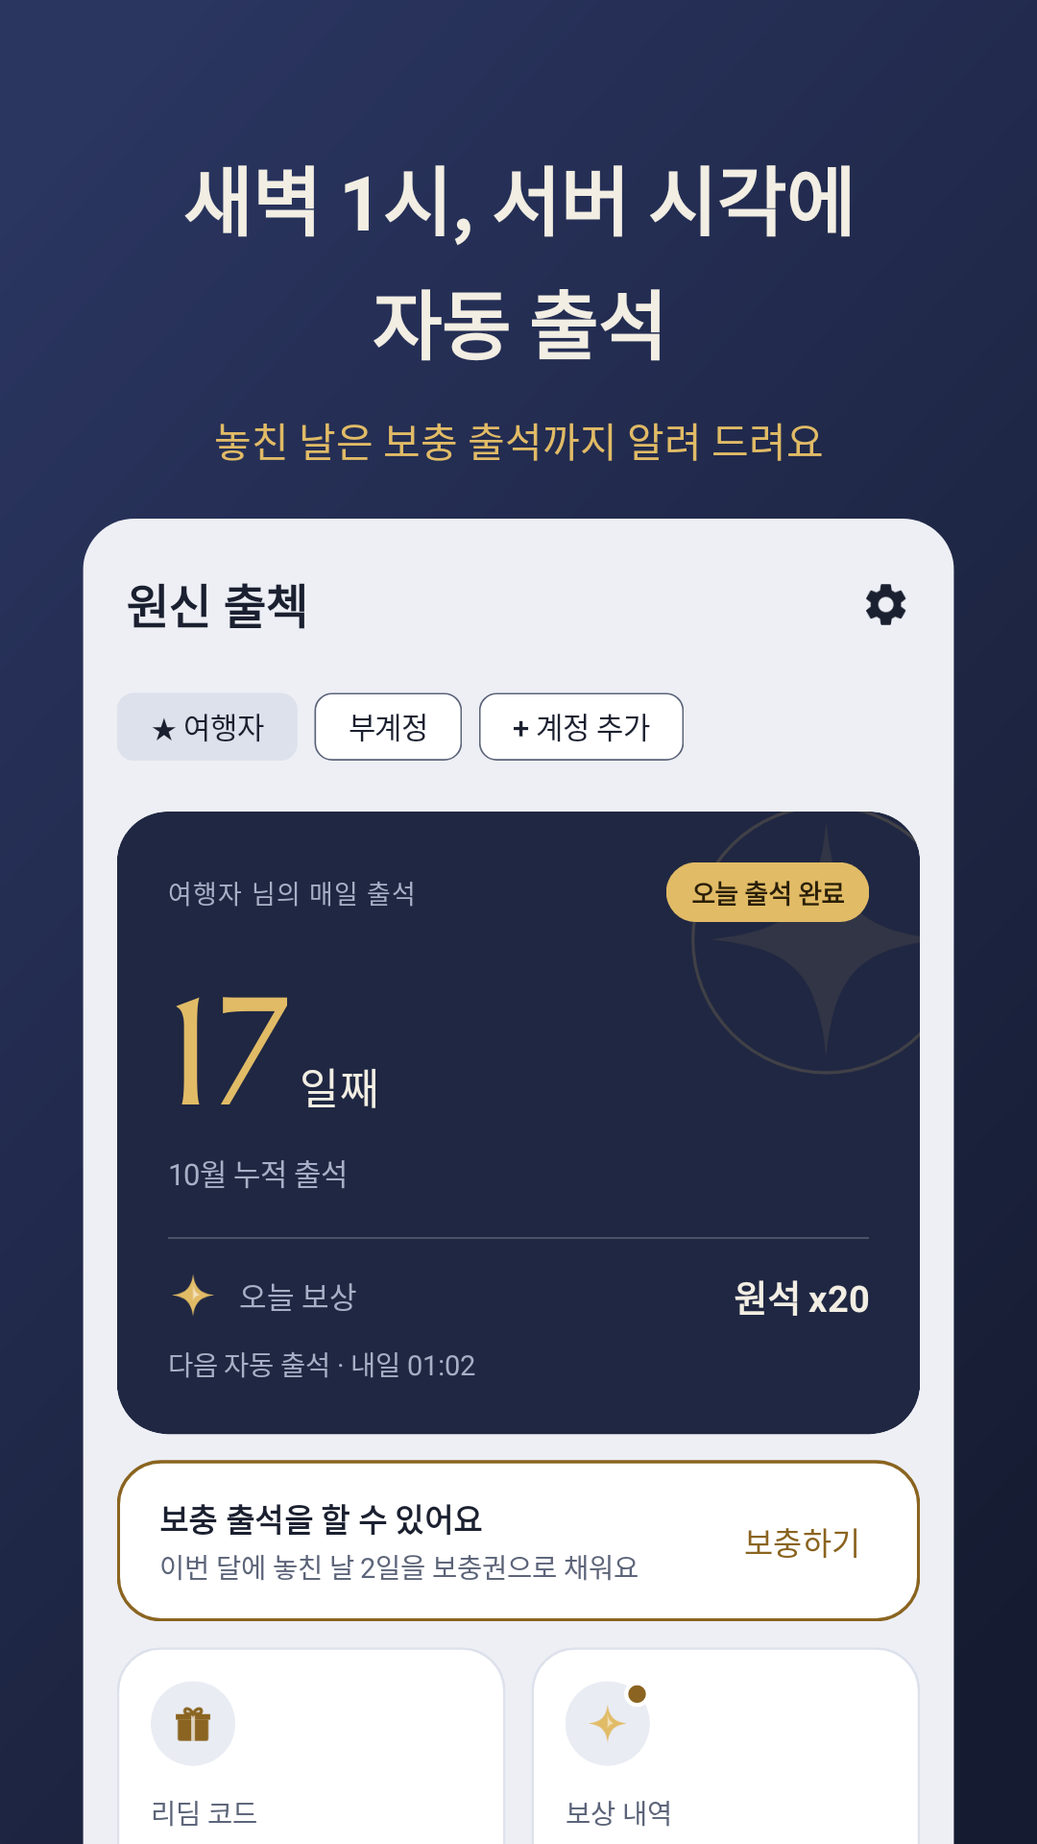
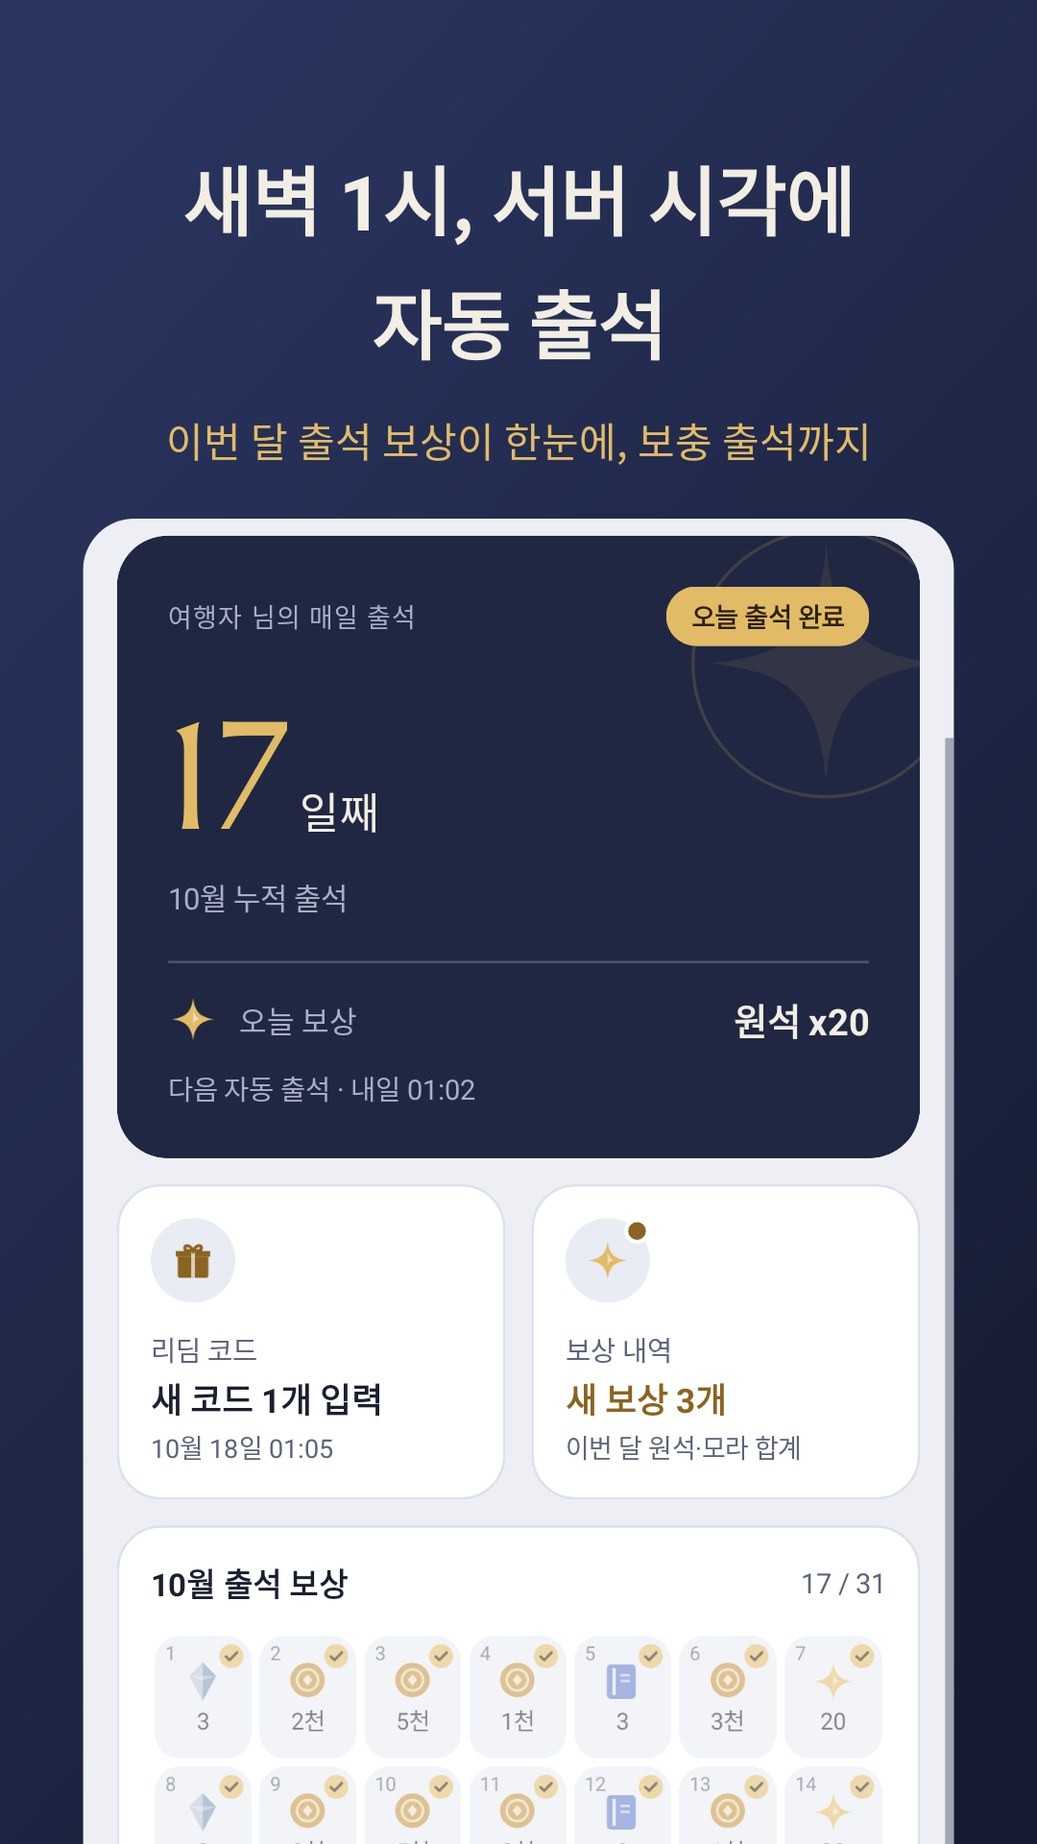
메인에 이번 달 출석 보상 달력 (0.9.3)
호요랩 출석 페이지처럼 이번 달 보상을 출석 횟수 순서로 7칸씩 보여 준다.
받은 칸은 흐리게+체크, 다음 칸은 금색 테두리, 놓친 날 때문에 이번 달 안에 못 받는 칸은 더 흐리게.
아래에 '다음 원석: N일 뒤'와 놓친 날 보충 안내. 보상 목록·누적·놓친 날은 하루 한 번(출석·보충 뒤에는 바로) 받아 온다.
스토어 스크린샷·설명·소개 페이지에도 반영.

diff --git a/app/src/main/java/kr/sumi/checkin/MainScreen.kt b/app/src/main/java/kr/sumi/checkin/MainScreen.kt
@@ -45,10 +45,16 @@ data class MainUiState(
     val busy: String? = null,
     /** 아직 확인하지 않은 보상 수. */
     val historyUnseen: Int = 0,
+    /** 이번 달 출석 보상(출석 횟수 순서). 아직 못 받아 왔으면 비어 있다. */
+    val calendar: List<CalendarSlot> = emptyList(),
+    /** 이번 달 안에 받을 수 있는 마지막 칸 번호(놓친 날을 보충하지 않으면 그 뒤 칸은 못 받는다). */
+    val calendarReachable: Int = Int.MAX_VALUE,
+    val calendarMissed: Int = 0,
 )
 
 /** activity_main 레이아웃을 MainUiState대로 채운다. 클릭 처리는 액티비티가 붙인다. */
 class MainScreen(val root: View) {
+    private val MATCH = android.view.ViewGroup.LayoutParams.MATCH_PARENT
     private val context = root.context
     private val statusChip: TextView = root.findViewById(R.id.statusChip)
     private val accountBar: View = root.findViewById(R.id.accountBar)
@@ -89,6 +95,11 @@ class MainScreen(val root: View) {
     private val tileHistoryValue: TextView = root.findViewById(R.id.tileHistoryValue)
     private val tileHistorySub: TextView = root.findViewById(R.id.tileHistorySub)
     private val tileHistoryDot: View = root.findViewById(R.id.tileHistoryDot)
+    private val calendarCard: View = root.findViewById(R.id.calendarCard)
+    private val calendarTitle: TextView = root.findViewById(R.id.calendarTitle)
+    private val calendarCount: TextView = root.findViewById(R.id.calendarCount)
+    private val calendarGrid: LinearLayout = root.findViewById(R.id.calendarGrid)
+    private val calendarNote: TextView = root.findViewById(R.id.calendarNote)
     val rowAccount: View = root.findViewById(R.id.rowAccount)
     private val accountTitle: TextView = root.findViewById(R.id.accountTitle)
     private val accountSub: TextView = root.findViewById(R.id.accountSub)
@@ -183,6 +194,81 @@ class MainScreen(val root: View) {
         rowAccount.visibility = if (s.loggedIn) View.VISIBLE else View.GONE
         rowLogout.visibility = if (s.loggedIn) View.VISIBLE else View.GONE
         renderTiles(s)
+        renderCalendar(s)
+    }
+
+    /**
+     * 출석 보상 달력. 7칸씩 줄을 만들고, 칸마다 그 번째 출석의 보상 아이콘과 개수를 넣는다.
+     * 받은 칸은 흐리게 하고 체크, 다음에 받을 칸은 금색 테두리, 이번 달 안에 못 받는 칸은 더 흐리게.
+     */
+    private fun renderCalendar(s: MainUiState) {
+        calendarCard.visibility = if (s.loggedIn && s.calendar.isNotEmpty()) View.VISIBLE else View.GONE
+        if (s.calendar.isEmpty()) return
+        val d = context.resources.displayMetrics.density
+        fun dp(v: Int) = (v * d).toInt()
+        calendarTitle.text = "${s.month}월 출석 보상"
+        calendarCount.text = "${s.totalDays} / ${s.calendar.size}"
+        calendarGrid.removeAllViews()
+        val next = s.totalDays + 1
+        for (rowStart in s.calendar.indices step 7) {
+            val row = LinearLayout(context).apply { orientation = LinearLayout.HORIZONTAL }
+            for (col in 0 until 7) {
+                val index = rowStart + col
+                val cell = android.widget.FrameLayout(context)
+                if (index < s.calendar.size) {
+                    val slot = s.calendar[index]
+                    val number = index + 1
+                    val done = number <= s.totalDays
+                    cell.background = android.graphics.drawable.GradientDrawable().apply {
+                        cornerRadius = dp(12).toFloat()
+                        setColor(context.getColor(R.color.item_tile))
+                        if (number == next) setStroke(dp(2), context.getColor(R.color.accent))
+                    }
+                    cell.alpha = when {
+                        done -> 0.55f
+                        number > s.calendarReachable -> 0.35f
+                        else -> 1f
+                    }
+                    cell.contentDescription = "${number}번째 출석, ${slot.name} ${slot.count}개" + if (done) ", 받음" else ""
+                    cell.addView(LinearLayout(context).apply {
+                        orientation = LinearLayout.VERTICAL
+                        gravity = android.view.Gravity.CENTER
+                        addView(android.widget.ImageView(context).apply { setImageResource(itemIcon(slot.name)) },
+                            LinearLayout.LayoutParams(dp(22), dp(22)))
+                        addView(TextView(context).apply {
+                            text = CheckInCalendar.compact(slot.count)
+                            textSize = 11f
+                            setTextColor(context.getColor(R.color.ink))
+                            gravity = android.view.Gravity.CENTER
+                            maxLines = 1
+                        })
+                    }, android.widget.FrameLayout.LayoutParams(MATCH, MATCH))
+                    cell.addView(TextView(context).apply {
+                        text = "$number"
+                        textSize = 9f
+                        setTextColor(context.getColor(R.color.ink_muted))
+                        setPadding(dp(5), dp(2), 0, 0)
+                    })
+                    if (done) cell.addView(android.widget.ImageView(context).apply { setImageResource(R.drawable.ic_check_badge) },
+                        android.widget.FrameLayout.LayoutParams(dp(14), dp(14), android.view.Gravity.END or android.view.Gravity.TOP).apply {
+                            topMargin = dp(3); marginEnd = dp(3)
+                        })
+                }
+                row.addView(cell, LinearLayout.LayoutParams(0, dp(58), 1f).apply { setMargins(dp(2), dp(2), dp(2), dp(2)) })
+            }
+            calendarGrid.addView(row)
+        }
+        // 다음 원석이 언제인지, 놓친 날이 있으면 보충 안내.
+        val nextPrimo = (next..s.calendar.size).firstOrNull { s.calendar[it - 1].name.contains("원석") && it <= s.calendarReachable }
+        val primoText = nextPrimo?.let {
+            val days = it - next + (if (s.signedToday) 1 else 0)
+            val whenText = if (days == 0) "오늘" else "${days}일 뒤"
+            "다음 원석: $whenText ×${s.calendar[it - 1].count}"
+        }
+        val missedText = if (s.calendarMissed > 0) "놓친 날 ${s.calendarMissed}일 · 보충하면 흐린 칸도 받을 수 있어요" else null
+        val note = listOfNotNull(primoText, missedText).joinToString("\n")
+        calendarNote.text = note
+        calendarNote.visibility = if (note.isEmpty()) View.GONE else View.VISIBLE
     }
 
     /** 보상 이름에 맞는 아이콘. 모르는 아이템은 선물 상자. */

diff --git a/app/src/main/java/kr/sumi/checkin/MainActivity.kt b/app/src/main/java/kr/sumi/checkin/MainActivity.kt
@@ -103,6 +103,7 @@ class MainActivity : Activity() {
         if (settings.hasAccounts) DailyAlarm.schedule(this)
         refresh()
         loadNicknamesIfMissing()
+        loadCalendarIfStale()
     }
 
     private var closeSettings: Any? = null
@@ -132,6 +133,27 @@ class MainActivity : Activity() {
     @Deprecated("Android 13 미만용")
     override fun onBackPressed() {
         if (screen.settingsPanel.visibility == View.VISIBLE) showSettings(false) else super.onBackPressed()
+    }
+
+    private var loadingCalendar = false
+    /** 출석·보충을 했으면 달력(받은 칸, 놓친 날)을 다시 받아 온다. */
+    @Volatile private var calendarDirty = false
+
+    /** 지금 계정의 출석 보상 달력을 하루 한 번 조용히 받아 온다(화면을 막지 않는다). */
+    private fun loadCalendarIfStale(force: Boolean = false) {
+        val store = store ?: return
+        if (loadingCalendar || (!force && CheckInCalendar.isFresh(store))) return
+        loadingCalendar = true
+        Thread {
+            try {
+                CheckInCalendar.refresh(store)
+            } catch (e: Exception) {
+            }
+            runOnUiThread {
+                loadingCalendar = false
+                refresh()
+            }
+        }.start()
     }
 
     /** 닉네임을 아직 모르는 계정이 있으면 조용히 불러온다(화면을 막지 않는다). */
@@ -203,6 +225,10 @@ class MainActivity : Activity() {
                 redeemWhen = store?.lastRedeemSummary?.let { DateFormat.format("M월 d일 HH:mm", Date(store.lastRedeemAt)).toString() },
                 busy = busy,
                 historyUnseen = store?.historyUnseen ?: 0,
+                calendar = store?.takeIf { it.calendarDay?.take(7) == today.toString().take(7) }?.calendarAwards.orEmpty(),
+                calendarMissed = store?.calendarMissed ?: 0,
+                // 남은 날(오늘 아직 출석 전이면 오늘 포함)만큼 더 받을 수 있다.
+                calendarReachable = (store?.signedTotal ?: 0) + today.lengthOfMonth() - today.dayOfMonth + (if (signedToday) 0 else 1),
             )
         )
         store?.let { countUnseenRewards(it) }
@@ -347,7 +373,10 @@ class MainActivity : Activity() {
 
     private fun checkInNow() {
         val store = store ?: return
-        runInBackground("출석하는 중...") { CheckIn.run(this, store)?.let { CheckIn.describe(it) } }
+        runInBackground("출석하는 중...") {
+            calendarDirty = true
+            CheckIn.run(this, store)?.let { CheckIn.describe(it) }
+        }
     }
 
     /** 알림 종류를 고른다. 로그인·캡차 같은 문제는 항상 알린다. */
@@ -387,6 +416,7 @@ class MainActivity : Activity() {
         val store = store ?: return
         runInBackground("보충 출석 준비 중...") {
             val result = MakeUp.perform(store) { step -> runOnUiThread { busy = step; refresh() } }
+            calendarDirty = true
             runOnUiThread { showMakeUpResult(result) }
             null
         }
@@ -409,6 +439,10 @@ class MainActivity : Activity() {
             runOnUiThread {
                 busy = null
                 refresh()
+                if (calendarDirty) {
+                    calendarDirty = false
+                    loadCalendarIfStale(force = true)
+                }
                 if (message != null) Toast.makeText(this, message, Toast.LENGTH_LONG).show()
             }
         }.start()

diff --git a/app/src/main/java/kr/sumi/checkin/CheckInCalendar.kt b/app/src/main/java/kr/sumi/checkin/CheckInCalendar.kt
@@ -1,0 +1,50 @@
+package kr.sumi.checkin
+
+import org.json.JSONArray
+import org.json.JSONObject
+import java.io.IOException
+
+/** 이번 달 출석 보상 한 칸. 호요랩은 날짜가 아니라 출석 횟수 순서대로 이 보상을 준다. */
+data class CalendarSlot(val name: String, val count: Int)
+
+/**
+ * 메인 화면의 출석 보상 달력. 호요랩 출석 페이지와 같은 정보(이번 달 보상 목록, 누적 출석, 놓친 날)를
+ * 하루 한 번만 받아 계정별로 저장해 둔다.
+ */
+object CheckInCalendar {
+    fun parseAwards(home: JSONObject): List<CalendarSlot> {
+        val awards = home.optJSONObject("data")?.optJSONArray("awards") ?: return emptyList()
+        return (0 until awards.length()).map { awards.getJSONObject(it) }.map { CalendarSlot(it.optString("name"), it.optInt("cnt")) }
+    }
+
+    /** 오늘 이미 받아 왔으면 다시 받지 않는다. */
+    fun isFresh(store: Store) = store.calendarDay == ServerClock.today().toString() && store.calendarAwards.isNotEmpty()
+
+    /** 보상 목록과 누적 출석·놓친 날을 받아 저장한다. 네트워크 오류는 IOException. */
+    @Throws(IOException::class)
+    fun refresh(store: Store) {
+        val client = CheckInClient(store.cookie ?: return)
+        val info = client.info().optJSONObject("data") ?: return
+        Thread.sleep(CheckInClient.REQUEST_GAP_MS)
+        val awards = parseAwards(client.home())
+        if (awards.isEmpty()) return
+        store.calendarAwards = awards
+        store.calendarMissed = info.optInt("sign_cnt_missed")
+        store.signedTotal = info.optInt("total_sign_day", store.signedTotal)
+        store.calendarDay = ServerClock.today().toString()
+    }
+
+    /** 칸에 들어갈 짧은 개수: 20, 5천, 1만, 1.5만. */
+    fun compact(count: Int): String = when {
+        count >= 10_000 -> (count / 1000 / 10.0).let { if (it % 1.0 == 0.0) "${it.toInt()}만" else "${it}만" }
+        count >= 1_000 -> "${count / 1000}천"
+        else -> "$count"
+    }
+
+    internal fun toJson(slots: List<CalendarSlot>) =
+        JSONArray(slots.map { JSONObject().put("name", it.name).put("cnt", it.count) }).toString()
+
+    internal fun fromJson(raw: String): List<CalendarSlot> = JSONArray(raw).let { array ->
+        (0 until array.length()).map { array.getJSONObject(it) }.map { CalendarSlot(it.optString("name"), it.optInt("cnt")) }
+    }
+}

diff --git a/app/src/test/java/kr/sumi/checkin/StoreAssetsTest.kt b/app/src/test/java/kr/sumi/checkin/StoreAssetsTest.kt
@@ -79,6 +79,15 @@ class StoreAssetsTest {
         })
     }
 
+    private val sampleCalendar = List(31) { i ->
+        when {
+            i % 7 == 6 -> CalendarSlot("원석", 20)
+            i % 7 == 2 -> CalendarSlot("모라", 5000)
+            i % 7 == 4 -> CalendarSlot("영웅의 경험", 3)
+            i % 7 == 0 -> CalendarSlot("정제용 양질 광석", 3)
+            else -> CalendarSlot("모라", 1000 * (i % 3 + 1))
+        }
+    }
     private val signed = MainUiState(
         loggedIn = true, accounts = listOf(AccountChip("181234567", "여행자", true), AccountChip("192345678", "부계정", false)),
         currentId = "181234567", uid = "181234567", nickname = "여행자", server = "아시아 서버", signedToday = true,
@@ -86,6 +95,7 @@ class StoreAssetsTest {
         makeUpMissed = 2, redeemRole = "아시아 서버 · 여행자 (Lv.60) · UID 812345678",
         redeemSummary = "10월 18일 01:05 · 새 코드 1개 입력: OKTCV81F9H8D", redeemShort = "새 코드 1개 입력",
         redeemWhen = "10월 18일 01:05", historyUnseen = 3,
+        calendar = sampleCalendar, calendarReachable = 31,
     )
 
     /** 방송 직후처럼 새 코드 여러 개를 넣은 상태. 리딤 장면 스크린샷용. */
@@ -318,8 +328,8 @@ class StoreAssetsTest {
     )
 
     @Test fun screenshot2CheckIn() = screenshot(
-        signed, night = false,
-        title = "새벽 1시, 서버 시각에\n자동 출석", sub = "놓친 날은 보충 출석까지 알려 드려요",
+        signed.copy(makeUpMissed = null), night = false, scrollTo = R.id.heroCard, aboveDp = 8,
+        title = "새벽 1시, 서버 시각에\n자동 출석", sub = "이번 달 출석 보상이 한눈에, 보충 출석까지",
     )
 
     @Test fun screenshot3History() = screenshot(
@@ -348,8 +358,8 @@ class StoreAssetsTest {
     )
 
     @Test fun tablet2CheckIn() = screenshot(
-        signed, night = false, tablet = true,
-        title = "새벽 1시, 서버 시각에\n자동 출석", sub = "놓친 날은 보충 출석까지 알려 드려요",
+        signed.copy(makeUpMissed = null), night = false, scrollTo = R.id.heroCard, aboveDp = 8, tablet = true,
+        title = "새벽 1시, 서버 시각에\n자동 출석", sub = "이번 달 출석 보상이 한눈에, 보충 출석까지",
     )
 
     @Test fun tablet3History() = screenshot(

diff --git a/app/src/test/java/kr/sumi/checkin/MainScreenSnapshotTest.kt b/app/src/test/java/kr/sumi/checkin/MainScreenSnapshotTest.kt
@@ -14,11 +14,21 @@ class MainScreenSnapshotTest {
         theme = "Theme.HoyoCheckin",
     )
 
+    private val sampleCalendar = List(31) { i ->
+        when {
+            i % 7 == 6 -> CalendarSlot("원석", 20)
+            i % 7 == 2 -> CalendarSlot("모라", 5000)
+            i % 7 == 4 -> CalendarSlot("영웅의 경험", 3)
+            i % 7 == 0 -> CalendarSlot("정제용 양질 광석", 3)
+            else -> CalendarSlot("모라", 1000 * (i % 3 + 1))
+        }
+    }
     private val signed = MainUiState(
         loggedIn = true, accounts = listOf(AccountChip("181234567", "여행자", true), AccountChip("192345678", "부계정", false)),
         currentId = "181234567", uid = "181234567", nickname = "여행자", server = "아시아 서버", signedToday = true, totalDays = 17, month = 10,
         reward = "원석 x20", lastChecked = "10월 18일 21:04", nextRun = "내일 01:03", makeUpMissed = 2,
         redeemRole = "아시아 서버 · 여행자 (Lv.60) · UID 812345678", redeemSummary = "10월 18일 01:04 · 새 코드 1개 입력: OKTCV81F9H8D", redeemShort = "새 코드 1개 입력", redeemWhen = "10월 18일 01:04", historyUnseen = 3,
+        calendar = sampleCalendar, calendarReachable = 30, calendarMissed = 1,
     )
     private val waiting = MainUiState(
         loggedIn = true, uid = "812345678", totalDays = 16, month = 10, lastChecked = "10월 18일 03:00",

diff --git a/store/site/checkin/index.html b/store/site/checkin/index.html
@@ -57,7 +57,7 @@
   <h2>하는 일</h2>
   <ul class="features">
     <li><strong>리딤코드 자동 입력</strong> 방송·이벤트로 공개된 코드를 찾아 고른 서버·캐릭터로 입력해요. 원석은 게임 우편함으로 와요.</li>
-    <li><strong>새벽 1시 자동 출석</strong> 폰 시계가 아니라 호요랩 서버 시각에 맞춰, 날짜가 바뀐 직후에 출석해요.</li>
+    <li><strong>새벽 1시 자동 출석</strong> 폰 시계가 아니라 호요랩 서버 시각에 맞춰, 날짜가 바뀐 직후에 출석해요. 이번 달 출석 보상은 달력으로 한눈에 봐요.</li>
     <li><strong>보상 내역</strong> 이번 달 받은 원석·모라와 리딤 코드로 받은 보상의 합계를 한눈에 봐요.</li>
     <li><strong>보충 출석</strong> 놓친 날이 있으면 알려 주고, 누르면 바로 보충해요.</li>
     <li><strong>여러 계정, 알림 골라 받기</strong> 계정을 여러 개 등록할 수 있어요. 알림은 종류별로 끌 수 있고, 켜 둔 알림도 밤에는 소리 없이 와요.</li>

diff --git a/app/src/main/java/kr/sumi/checkin/Store.kt b/app/src/main/java/kr/sumi/checkin/Store.kt
@@ -62,6 +62,17 @@ class Store(private val context: Context, val accountId: String) {
         get() = prefs.getString("make_up_day", null)
         set(value) = prefs.edit { putString("make_up_day", value) }
 
+    /** 출석 보상 달력: 이번 달 보상 목록, 놓친 날 수, 받아 온 날(서버 날짜). */
+    var calendarAwards: List<CalendarSlot>
+        get() = prefs.getString("calendar_awards", null)?.let { CheckInCalendar.fromJson(it) } ?: emptyList()
+        set(value) = prefs.edit { putString("calendar_awards", CheckInCalendar.toJson(value)) }
+    var calendarMissed: Int
+        get() = prefs.getInt("calendar_missed", 0)
+        set(value) = prefs.edit { putInt("calendar_missed", value) }
+    var calendarDay: String?
+        get() = prefs.getString("calendar_day", null)
+        set(value) = prefs.edit { putString("calendar_day", value) }
+
     var makeUpMissed: Int
         get() = prefs.getInt("make_up_missed", 0)
         set(value) = prefs.edit { putInt("make_up_missed", value) }

diff --git a/app/src/test/java/kr/sumi/checkin/RedeemTest.kt b/app/src/test/java/kr/sumi/checkin/RedeemTest.kt
@@ -118,3 +118,19 @@ class RewardHistoryTest {
         assertEquals(null, RewardHistory.formatTotals(emptyList()))
     }
 }
+
+class CheckInCalendarTest {
+    @Test fun compactCounts() {
+        assertEquals("20", CheckInCalendar.compact(20))
+        assertEquals("5천", CheckInCalendar.compact(5000))
+        assertEquals("1만", CheckInCalendar.compact(10000))
+        assertEquals("1.5만", CheckInCalendar.compact(15000))
+    }
+
+    @Test fun parsesAwardsAndRoundTrips() {
+        val home = JSONObject("""{"retcode":0,"data":{"month":10,"awards":[{"name":"원석","cnt":20},{"name":"모라","cnt":5000}]}}""")
+        val slots = CheckInCalendar.parseAwards(home)
+        assertEquals(listOf(CalendarSlot("원석", 20), CalendarSlot("모라", 5000)), slots)
+        assertEquals(slots, CheckInCalendar.fromJson(CheckInCalendar.toJson(slots)))
+    }
+}

diff --git a/app/src/main/java/kr/sumi/checkin/CheckInClient.kt b/app/src/main/java/kr/sumi/checkin/CheckInClient.kt
@@ -81,6 +81,14 @@ class CheckInClient(private val cookie: String) {
     fun isLoggedIn(): Boolean =
         infoError(request("GET", "$API/info?lang=$LANG&act_id=$ACT_ID")) != Outcome.LoginExpired
 
+    /** 오늘 출석 여부·누적 출석·놓친 날. */
+    @Throws(IOException::class)
+    fun info(): JSONObject = fetchInfo()
+
+    /** 이번 달 출석 보상 목록(출석 횟수 순서). */
+    @Throws(IOException::class)
+    fun home(): JSONObject = request("GET", "$API/home?lang=$LANG&act_id=$ACT_ID")
+
     @Throws(IOException::class)
     fun resignInfo(): JSONObject = request("GET", "$API/resign_info?lang=$LANG&act_id=$ACT_ID")
 

diff --git a/store/README.md b/store/README.md
@@ -32,6 +32,7 @@
 
 ■ 서버 시각에 맞춘 자동 출석
 HoYoLAB의 날짜는 한국 시간 새벽 1시에 바뀌어요. 앱은 폰 시계가 아니라 HoYoLAB 서버 시각을 기준으로, 날짜가 바뀐 직후에 출석해요. 출석했다는 응답을 받은 뒤 한 번 더 확인해서 실제로 반영됐는지도 봐요.
+이번 달 출석 보상을 달력으로 보여 주고, 다음 원석이 언제인지도 알려 줘요.
 
 ■ 보상 내역
 이번 달 받은 원석·모라와 리딤 코드로 받은 보상의 합계를 한눈에 보여 줘요.
